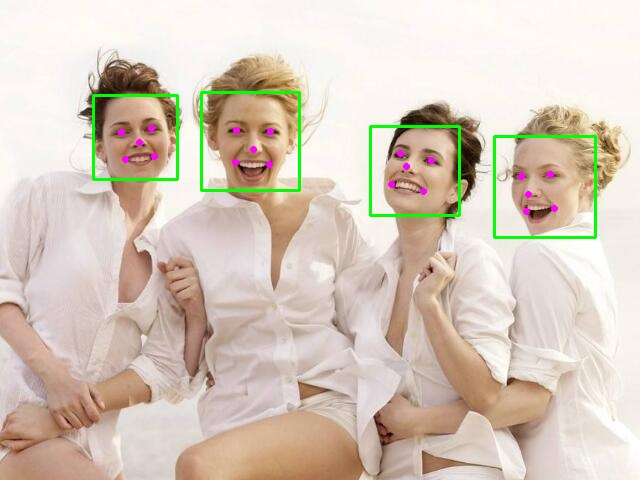
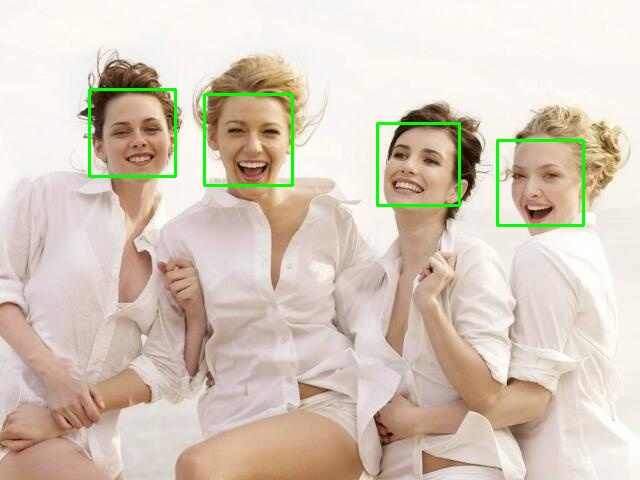
rewrite the test file

diff --git a/src/main.cpp b/src/main.cpp
@@ -10,15 +10,15 @@ int TestLandmark(int argc, char* argv[]) {
 
 	double start = static_cast<double>(cv::getTickCount());
 	
-	FaceEngine face_engine;
-	face_engine.LoadModel(root_path);
+	FaceEngine* face_engine = new FaceEngine();
+	face_engine->LoadModel(root_path);
 	std::vector<FaceInfo> faces;
-	face_engine.Detect(img_src, &faces);
+	face_engine->Detect(img_src, &faces);
 	for (int i = 0; i < static_cast<int>(faces.size()); ++i) {
 		cv::Rect face = faces.at(i).face_;
 		cv::rectangle(img_src, face, cv::Scalar(0, 255, 0), 2);
 		std::vector<cv::Point2f> keypoints;
-		face_engine.ExtractKeypoints(img_src, face, &keypoints);
+		face_engine->ExtractKeypoints(img_src, face, &keypoints);
 		for (int j = 0; j < static_cast<int>(keypoints.size()); ++j) {
 			cv::circle(img_src, keypoints[j], 1, cv::Scalar(0, 0, 255), 1);
 		}
@@ -31,6 +31,9 @@ int TestLandmark(int argc, char* argv[]) {
 	cv::imshow("result", img_src);
 	cv::waitKey(0);
 
+	delete face_engine;
+	face_engine = nullptr;
+
 	return 0;
 
 }
@@ -41,17 +44,16 @@ int TestRecognize(int argc, char* argv[]) {
 	const char* root_path = "../data/models";
 
 	double start = static_cast<double>(cv::getTickCount());
-	FaceEngine face_engine;
-	face_engine.LoadModel(root_path);
+	FaceEngine* face_engine = new FaceEngine();
+	face_engine->LoadModel(root_path);
 	std::vector<FaceInfo> faces;
-	face_engine.Detect(img_src, &faces);
-
+	face_engine->Detect(img_src, &faces);
 
 	cv::Mat face1 = img_src(faces[0].face_).clone();
 	cv::Mat face2 = img_src(faces[1].face_).clone();
 	std::vector<float> feature1, feature2;
-	face_engine.ExtractFeature(face1, &feature1);
-	face_engine.ExtractFeature(face2, &feature2);
+	face_engine->ExtractFeature(face1, &feature1);
+	face_engine->ExtractFeature(face2, &feature2);
 	float sim = CalculateSimilarity(feature1, feature2);
 
 	double end = static_cast<double>(cv::getTickCount());
@@ -67,6 +69,8 @@ int TestRecognize(int argc, char* argv[]) {
 	cv::imwrite("result.jpg", img_src);
 	std::cout << "similarity is: " << sim << std::endl;
 
+	delete face_engine;
+	face_engine = nullptr;
 	return 0;
 
 }
@@ -78,16 +82,16 @@ int TestAlignFace(int argc, char* argv[]) {
 
 	double start = static_cast<double>(cv::getTickCount());
 	
-	FaceEngine face_engine;
-	face_engine.LoadModel(root_path);
+	FaceEngine* face_engine = new FaceEngine();
+	face_engine->LoadModel(root_path);
 	std::vector<FaceInfo> faces;
-	face_engine.Detect(img_src, &faces);
+	face_engine->Detect(img_src, &faces);
 	for (int i = 0; i < static_cast<int>(faces.size()); ++i) {
 		cv::Rect face = faces.at(i).face_;
 		std::vector<cv::Point2f> keypoints;
-		face_engine.ExtractKeypoints(img_src, face, &keypoints);
+		face_engine->ExtractKeypoints(img_src, face, &keypoints);
 		cv::Mat face_aligned;
-		face_engine.AlignFace(img_src, keypoints, &face_aligned);
+		face_engine->AlignFace(img_src, keypoints, &face_aligned);
 		std::string name = std::to_string(i) + ".jpg";
 		cv::imwrite(name.c_str(), face_aligned);
 		for (int j = 0; j < static_cast<int>(keypoints.size()); ++j) {
@@ -98,6 +102,10 @@ int TestAlignFace(int argc, char* argv[]) {
 	cv::imshow("result", img_src);
 	cv::waitKey(0);
 
+	delete face_engine;
+	face_engine = nullptr;
+	
+	return 0;
 }
 
 int TestDetector(int argc, char* argv[]) {
@@ -105,11 +113,11 @@ int TestDetector(int argc, char* argv[]) {
 	cv::Mat img_src = cv::imread(img_file);
 	const char* root_path = "../data/models";
 
-	FaceEngine face_engine;
-	face_engine.LoadModel(root_path);
+	FaceEngine* face_engine = new FaceEngine();
+	face_engine->LoadModel(root_path);
 	std::vector<FaceInfo> faces;
 	double start = static_cast<double>(cv::getTickCount());
-	face_engine.Detect(img_src, &faces);
+	face_engine->Detect(img_src, &faces);
 	double end = static_cast<double>(cv::getTickCount());
 	double time_cost = (end - start) / cv::getTickFrequency() * 1000;
 	std::cout << "time cost: " << time_cost << "ms" << std::endl;
@@ -117,15 +125,20 @@ int TestDetector(int argc, char* argv[]) {
 	for (int i = 0; i < static_cast<int>(faces.size()); ++i) {
 		FaceInfo face_info = faces.at(i);
 		cv::rectangle(img_src, face_info.face_, cv::Scalar(0, 255, 0), 2);
+#if 0
 		for (int num = 0; num < 5; ++num) {
 			cv::Point curr_pt = cv::Point(face_info.keypoints_[num],
 										  face_info.keypoints_[num + 5]);
 			cv::circle(img_src, curr_pt, 2, cv::Scalar(255, 0, 255), 2);
-		}		
+		}	
+#endif 
 	}
 	cv::imwrite("../data/images/mtcnn_result.jpg", img_src);
 	cv::imshow("result", img_src);
 	cv::waitKey(0);
+
+	delete face_engine;
+	face_engine = nullptr;
 
 	return 0;
 }
@@ -140,8 +153,8 @@ int TestTrack(int argc, char* argv[]) {
 	}
 
 	const char* root_path = "../data/models";
-	FaceEngine face_engine;
-	face_engine.LoadModel(root_path);
+	FaceEngine* face_engine = new FaceEngine();
+	face_engine->LoadModel(root_path);
 
 	cv::Mat frame;
 	while (true) {
@@ -150,9 +163,9 @@ int TestTrack(int argc, char* argv[]) {
 			continue;
 		}
 		std::vector<FaceInfo> curr_faces;
-		face_engine.Detect(frame, &curr_faces);
+		face_engine->Detect(frame, &curr_faces);
 		std::vector<TrackedFaceInfo> faces;
-		face_engine.Track(curr_faces, &faces);
+		face_engine->Track(curr_faces, &faces);
 
 		for (int i = 0; i < static_cast<int>(faces.size()); ++i) {
 			TrackedFaceInfo tracked_face_info = faces.at(i);
@@ -165,6 +178,8 @@ int TestTrack(int argc, char* argv[]) {
 		}
 	}
 
+	delete face_engine;
+	face_engine = nullptr;
 
 	return 0;
 }
@@ -207,6 +222,9 @@ int TestDatabase(int argc, char* argv[]) {
     face_engine->Save();
     cv::imwrite("../data/images/result.jpg", img_src);
 
+	delete face_engine;
+	face_engine = nullptr;
+
     return 0;
 }
 
@@ -215,7 +233,7 @@ int main(int argc, char* argv[]) {
 	// return TestLandmark(argc, argv);
 	// return TestRecognize(argc, argv);
 	// return TestAlignFace(argc, argv);
-	// return TestDetector(argc, argv);
+	return TestDetector(argc, argv);
 	// return TestTrack(argc, argv);
-	return TestDatabase(argc, argv);
+	// return TestDatabase(argc, argv);
 }

diff --git a/src/face_engine.cpp b/src/face_engine.cpp
@@ -12,7 +12,7 @@ namespace mirror {
 class FaceEngine::Impl {
 public:
 	Impl() {
-		detecter_factory_ = new MtcnnFactory();
+		detecter_factory_ = new RetinafaceFactory();
 		landmarker_factory_ = new ZQLandmarkerFactory();
 		recognizer_factory_ = new MobilefacenetRecognizerFactory();
 
